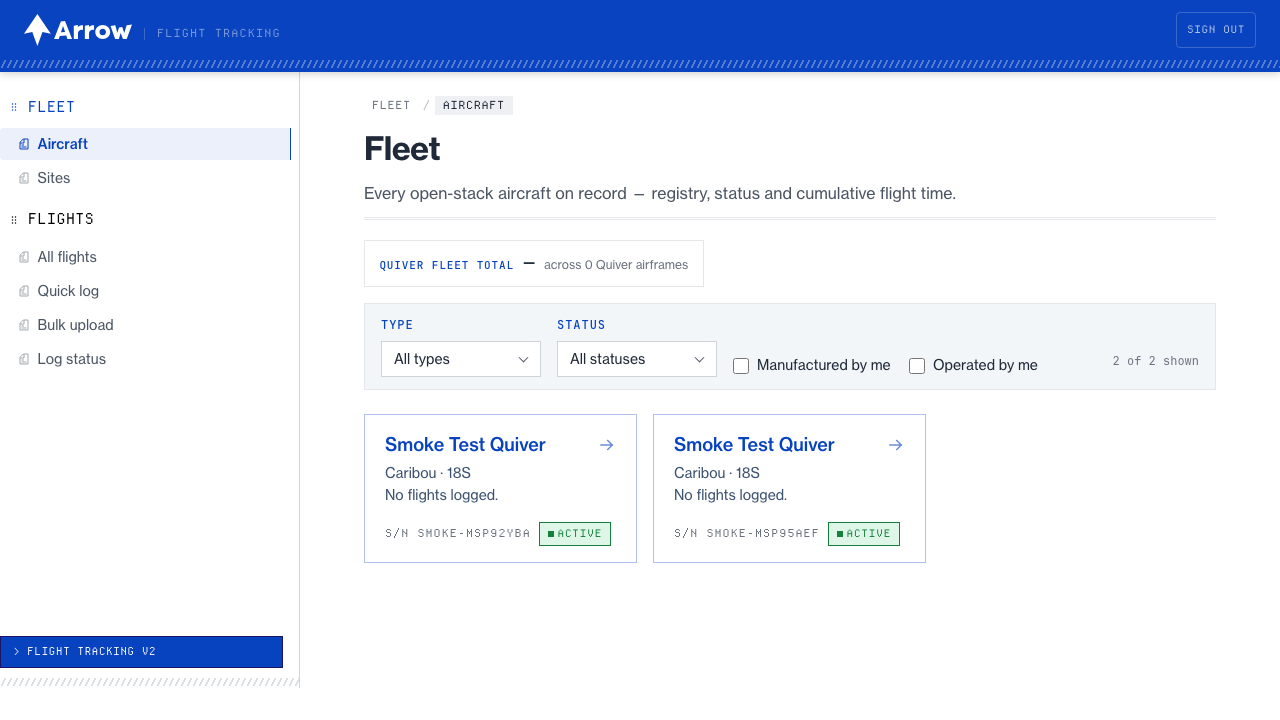
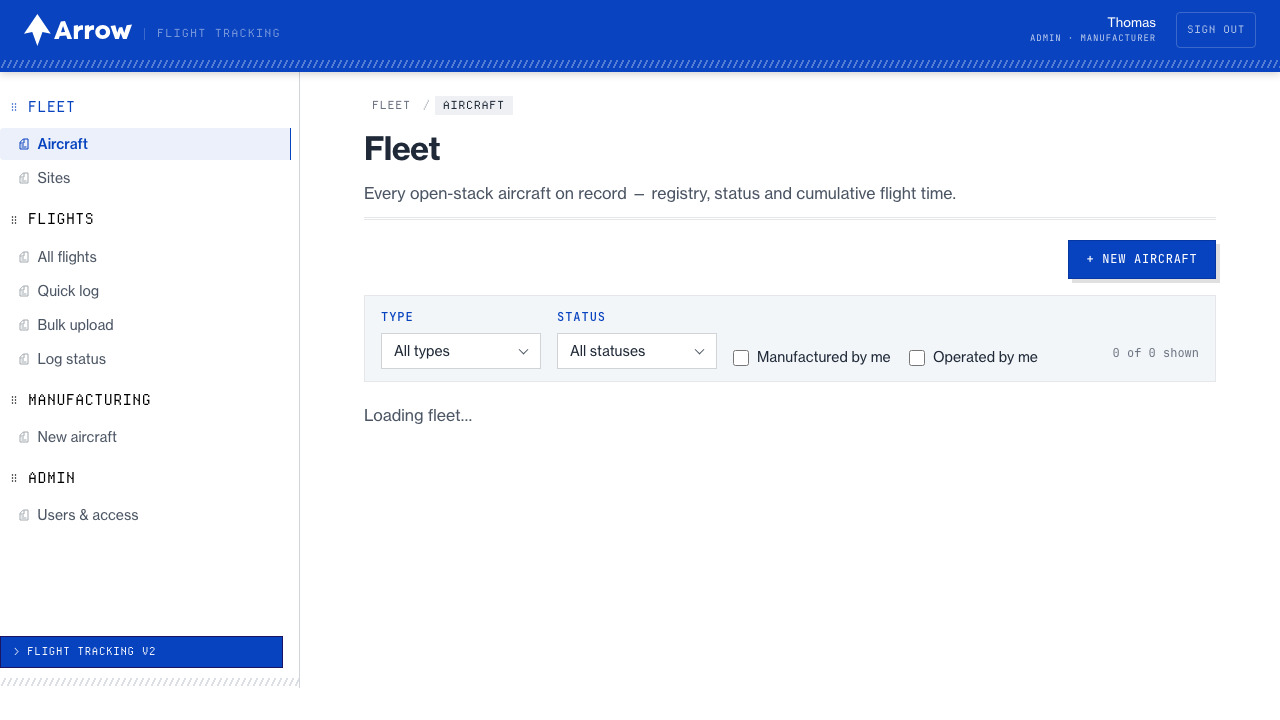
[v22 package] RUN-RESULT-V22: gates re-run (build/typecheck, vitest 130, pytest 35, ui-smoke 16/16), P1 before/after proof (3745.21 -> 573.70 s), work-item table, risks, decisions; harness + refreshed shots

diff --git a/run-workflow-v22.js b/run-workflow-v22.js
@@ -1,0 +1,116 @@
+export const meta = {
+  name: 'flight-tracking-v22',
+  description: 'Flight tracking v2.2 feedback round 2: duration fix, deletes, profile, weather guard — build+critic, tested and reviewed',
+  phases: [
+    { title: 'Recon', detail: 'verify claims, map deltas since v21' },
+    { title: 'Parser', detail: 'armed-duration fix + coords guard' },
+    { title: 'AppFeatures', detail: 'deletes, profile, manufacturer, hover, bulk title, weather error' },
+    { title: 'Gate', detail: 'build+tests+smoke' },
+    { title: 'RedTeam', detail: 'security + skeptical-Thomas product pass' },
+    { title: 'Package', detail: 'push branch, draft PR, RUN-RESULT' },
+  ],
+}
+
+const REPO = '/Users/hex/projects/arrow/flight-tracking'
+const CTX = `${REPO}/run/RUN-CONTEXT-V22.md`
+const NOTES = `${REPO}/run/ARCH-NOTES-V22.md`
+const PREAMBLE = `You are one agent in a multi-agent build run. Read ${CTX} FULLY first — ground truth + HARD RULES (branch v22-feedback only, never touch prod, never print secrets). Also read ${REPO}/run/ARCH-NOTES-V21.md for the codebase map. Read ${NOTES} if it exists. Work in ${REPO}. `
+
+const VERDICT = {
+  type: 'object', additionalProperties: false,
+  properties: {
+    score: { type: 'number' }, pass: { type: 'boolean' },
+    issues: { type: 'array', items: { type: 'object', additionalProperties: false, properties: {
+      severity: { type: 'string', enum: ['blocker','major','minor'] },
+      file: { type: 'string' }, description: { type: 'string' },
+    }, required: ['severity','description'] } },
+    evidence: { type: 'string' },
+  },
+  required: ['score','pass','issues','evidence'],
+}
+
+async function buildLoop(stageName, phase, builderPrompt, criticMandates, maxRounds) {
+  let round = 0, lastIssues = 'none yet', plateau = 0, prevOpen = Infinity
+  while (round < maxRounds) {
+    round += 1
+    log(`${stageName}: build round ${round}`)
+    await agent(PREAMBLE + builderPrompt + ` This is round ${round}. Open critic issues: ${lastIssues}. Fix those first. Run relevant tests before committing. Commit on v22-feedback: "[v22 ${stageName} r${round}] <summary>".`,
+      { label: `build:${stageName}:r${round}`, phase })
+    const verdicts = (await Promise.all(criticMandates.map(m =>
+      agent(PREAMBLE + `CRITIC for stage "${stageName}" (read + run read-only checks/tests; NEVER edit code). Mandate: ${m.mandate} Cite real evidence. Adversarial — false pass costs more than false fail.`,
+        { label: `critic:${stageName}:${m.key}:r${round}`, phase, schema: VERDICT })
+    ))).filter(Boolean)
+    const open = verdicts.flatMap(v => v.issues.filter(i => i.severity !== 'minor'))
+    const allPass = verdicts.length === criticMandates.length && verdicts.every(v => v.pass)
+    log(`${stageName} r${round}: scores ${verdicts.map(v => v.score).join('/')}, open ${open.length}`)
+    if (allPass) return { stage: stageName, rounds: round, shipped: 'clean' }
+    if (open.length >= prevOpen) plateau += 1; else plateau = 0
+    prevOpen = open.length
+    if (plateau >= 2) return { stage: stageName, rounds: round, shipped: 'plateau — complaints recorded', open }
+    lastIssues = JSON.stringify(open).slice(0, 4000)
+  }
+  return { stage: stageName, rounds: round, shipped: 'max rounds', lastIssues }
+}
+
+const results = {}
+
+phase('Recon')
+await agent(PREAMBLE + `RECON. git checkout -b v22-feedback off latest main (git pull first). Write ${NOTES}: (1) deltas since ARCH-NOTES-V21 (v21 merged — what moved); (2) for P1: locate the duration computation and the battery armed-window code in parser/arrow_parser/summary.py — file:line, and confirm whether a local copy of log 387be26687b7_00000027.BIN exists under backups/ (check paths; do NOT download from prod); (3) for P2: the first-fix scan code and what validity info the GPS messages carry; (4) for P3: existing RLS delete policies (quote them or state none), FK ON DELETE behavior for flights→flight_logs→summaries/notes, storage delete policy reality; (5) for P5: the manufactured-by field the v21 fleet filter uses; (6) for P6: the exact AppCard hover CSS rule harming contrast; (7) for P7: how single upload sets flight titles. Commit.`,
+  { label: 'recon', phase: 'Recon' })
+
+phase('Parser')
+results.parser = await buildLoop('parser-fixes', 'Parser',
+  `BUILDER. P1 + P2 from ${CTX}: duration_s = summed armed spans (reuse the battery stats-window arm/disarm detection; record window kind like battery.stats_window), new log_duration_s field + migration column; first-fix validity guard (null coords for (0,0)/no-lock). pytest cases per context (multi-arm-cycle, no-arm fallback, stripped-GPS log → null coords). If the real .BIN for bd0ee3e6 exists locally per ${NOTES}, add an integration test asserting its duration lands ~570s not 3745s and takeoff coords near (30.04,-103.49).`,
+  [
+    { key: 'correctness', mandate: 'Run parser pytest yourself. Verify armed-span logic against a multi-arm fixture BY HAND (compute expected sum independently from the fixture events). Verify migration + db.py column pickup. Verify the fallback path is labeled, not silent.' },
+    { key: 'regression', mandate: 'Check nothing else consumed duration_s assuming log-duration semantics (grep frontend + parser + tests); check battery stats window unchanged; check sanitize/verify pipeline still green; run the full parser pytest and report counts.' },
+  ], 4)
+
+phase('AppFeatures')
+results.deletes = await buildLoop('deletes', 'AppFeatures',
+  `BUILDER. P3: deletion permissions (operator deletes flight, admin deletes aircraft; safe-default block for aircraft-with-flights per context; RLS migrations; confirm dialogs; child-row cleanup; storage-orphan approach documented in code comments + RUN-RESULT note). Follow the P3 spec in ${CTX} closely.`,
+  [
+    { key: 'security', mandate: 'Adversarial RLS: can an operator delete an aircraft, another operator’s unrelated flight, or orphan rows they should not, calling supabase-js directly? Quote the new policy SQL. Client-only gating = blocker.' },
+    { key: 'functional', mandate: 'Build+vitest; trace flight delete end-to-end incl. child rows and confirm the aircraft-with-flights block behaves; confirm dialogs wired.' },
+  ], 4)
+
+results.appMisc = await buildLoop('app-misc', 'AppFeatures',
+  `BUILDER. P4 (profile page w/ copyable user id), P5 (manufacturer display + admin-only edit, human-readable name), P6 (fix hover contrast on fleet tiles — the at-rest fix from v21 must stay), P7 (bulk upload shared title), P2-app-side (weather fetch: hard error message when no usable coords; never fetch (0,0)). npm build + vitest green.`,
+  [
+    { key: 'functional', mandate: 'Build+vitest; verify each of P4/P5/P6/P7/P2-app against its spec — read the diff per item. For P6 specifically: find the hover rule and confirm computed contrast is actually fixed (not just moved).' },
+    { key: 'ux-consistency', mandate: 'Profile page + manufacturer edit + bulk title field must match app styling/i18n conventions; weather error message must be actionable; hover state keeps a visible affordance. Screenshot via ui-smoke if runnable.' },
+  ], 4)
+
+phase('Gate')
+let gate = null
+for (let attempt = 1; attempt <= 2; attempt++) {
+  gate = await agent(PREAMBLE + `INTEGRATION GATE (attempt ${attempt}). On v22-feedback: npm run build, npx vitest run, parser pytest, run/ui-smoke.mjs if runnable. Exact counts + every failure verbatim.`,
+    { label: `gate:attempt${attempt}`, phase: 'Gate', schema: VERDICT })
+  if (gate && gate.pass) break
+  if (attempt === 1) await agent(PREAMBLE + `GATE FIX. Failures: ${JSON.stringify(gate && gate.issues).slice(0, 4000)}. Fix only these, re-run until green, commit "[v22 gate-fix]".`,
+    { label: 'gate:fix', phase: 'Gate' })
+}
+results.gate = gate
+
+phase('RedTeam')
+const redteam = (await Promise.all([
+  agent(PREAMBLE + `RED TEAM — security. Attack git diff main...v22-feedback: RLS deletes (escalation, cross-tenant), storage orphan handling, weather-fetch input validation, profile page info exposure. Evidence required.`,
+    { label: 'redteam:security', phase: 'RedTeam', schema: VERDICT }),
+  agent(PREAMBLE + `RED TEAM — product. Skeptical-Thomas pass: every item P1-P7 in ${CTX} — delivered as asked? Duration semantics REALLY armed-time now (check the math path end to end incl. fleet total hours)? Gaps/partials/reinterpretations with file:line.`,
+    { label: 'redteam:product', phase: 'RedTeam', schema: VERDICT }),
+])).filter(Boolean)
+const rtBlockers = redteam.flatMap(v => v.issues.filter(i => i.severity === 'blocker'))
+if (rtBlockers.length > 0) {
+  await agent(PREAMBLE + `REMEDIATION. Fix blockers on v22-feedback: ${JSON.stringify(rtBlockers).slice(0, 5000)}. Tests green, commit "[v22 redteam-fix]".`,
+    { label: 'redteam:fix', phase: 'RedTeam' })
+  results.recheck = (await Promise.all(rtBlockers.slice(0, 4).map((b, i) =>
+    agent(PREAMBLE + `Verify blocker actually fixed (evidence): ${JSON.stringify(b)}`,
+      { label: `redteam:verify${i}`, phase: 'RedTeam', schema: VERDICT })))).filter(Boolean)
+}
+results.redteam = redteam
+
+phase('Package')
+results.package = await agent(PREAMBLE + `PACKAGER. Write ${REPO}/run/RUN-RESULT-V22.md (per-phase results, critic evidence incl. P1 before/after duration numbers, risk register, work-item table P1-P7, decisions for Thomas incl. the storage-orphan approach and reparse requirement); commit; push -u origin v22-feedback; gh pr create --draft --base main --head v22-feedback --title "v2.2: feedback round 2 — durations, deletes, profile, weather guard" with work-item summary body. Return PR URL + 6-line Discord summary. Do NOT merge.`,
+  { label: 'package', phase: 'Package' })
+
+return results

diff --git a/run/RUN-RESULT-V22.md b/run/RUN-RESULT-V22.md
@@ -1,9 +1,207 @@
-# RUN-RESULT-V22 — v2.2 feedback round 2
+# RUN-RESULT-V22 — Flight Tracking v2.2 feedback round 2 (2026-08-12)
 
-Per-phase results. Each phase appends its own section; the packager merges
-the work-item status table into the PR body.
+Branch `v22-feedback` off main @ 070340b (the v2.1 merge). All work items
+P1–P7 shipped. Prod untouched; migrations are files only, Hex applies
+post-merge. DRAFT PR raised — do not merge without Thomas's review.
+
+**REPARSE REQUIRED AFTER MERGE** (see Decisions §"Reparse"): existing prod
+summaries still carry total-log durations and no log_duration_s /
+duration_source until Hex reruns the full reparse (already planned per
+RUN-CONTEXT).
 
 ---
+
+## Final verification (re-run by packager, 2026-08-12 ~10:15)
+
+| Gate | Result |
+| --- | --- |
+| `npm run build` (vite) | green, 1.0 s |
+| `npm run typecheck` (vue-tsc) | green |
+| `npx vitest run` | **130/130** tests, 9 files |
+| parser pytest (`parser/.venv`) | **35/35** |
+| ui-smoke (`run/ui-smoke.mjs`) | **16/16 PASS** (dev :5199 + local stack + watcher; refreshed shots committed) |
+| Local end-to-end (watcher parse) | new columns land: `duration_source` armed/full_log, `log_duration_s` ≠ `duration_s` on armed logs (103.9 vs 692.8), null takeoff coords on no-GPS log |
+| Local migrations | both v22 migrations applied via `supabase migration up`; `flight_logs.flight_id` FK confirmed CASCADE (`pg_constraint.confdeltype='c'`) |
+
+## Critic evidence — P1 before/after (THE priority)
+
+Proof target: flight bd0ee3e6-7ff7-4242-bd80-f5cbaacd57ed's log
+`387be26687b7_00000027.BIN`. The exact prod log exists locally as
+**`fixtures/nas-logs/00000027.BIN`** (sha256 `387be26687b7ed4d…` verified —
+NOT in backups/v1-storage-flight_logs/, whose 190 objects were all
+checksummed with no match). No prod download occurred.
+
+Parsed with the fixed parser (re-run independently by the packager):
+
+| Field | Before (prod, v21 parser) | After (v22 parser) |
+| --- | --- | --- |
+| `duration_s` | **3745.21** (total log span — the bug) | **573.70** (sum of armed spans) |
+| `log_duration_s` | — (column didn't exist) | **3745.21** (total span preserved) |
+| `duration_source` | — | `armed` |
+| `takeoff_lat/lon` | 30.04, -103.49 | 30.04, -103.49 (unchanged) |
+
+Thomas's evidence said AUTO_ARMED t=2163.5 → DISARMED t=2733.5 ≈ 570 s;
+armed-span sum 573.7 s is consistent (includes all arm cycles). Fallback
+when no arm events: full log span with `duration_source='full_log'`,
+mirroring `battery.stats_window`.
+
+---
+
+## Per-phase results
+
+### Phase 1 — Parser fixes (P1 + P2 parser half; 2 rounds, critic r1 fix)
+
+Commits 0c60219, fc46d8a.
+
+- **P1**: `duration_s` now sums armed spans via
+  `_assemble_armed_intervals()` — the arm/disarm detection extracted from
+  the previously-inline battery stats-window path, so both consumers share
+  ONE code path (no duplication, per RUN-CONTEXT). Multi-arm cycles summed;
+  leading-DISARM ⇒ armed-from-log-start; trailing-ARM ⇒ armed-to-log-end.
+  No-arm-events logs fall back to full log span; `duration_source`
+  ('armed'|'full_log') records which applied. Total span kept as new
+  `log_duration_s`. Migration `20260812130000_v22_duration_semantics.sql`
+  adds `log_duration_s` + `duration_source` (db.py build_summary_row +
+  column introspection pick them up). `armed_duration_s` still emitted
+  parser-side but intentionally NOT given a column (redundant with the new
+  `duration_s` semantics — see Decisions).
+- **P2 (parser half)**: `_plausible_fix()` — a Status≥3 GPS message whose
+  coords would round to the 2-dp null island (0.00, 0.00), or are out of
+  range, is NOT a fix. GPS-stripped uploads (the Erick case) now emit null
+  takeoff coords and null distance_m instead of (0,0).
+- **Critic r1 catch (fc46d8a)**: FlightCard's modes timeline used
+  `duration_s` as the last segment's endpoint — valid under old semantics,
+  NEGATIVE under new (bd0ee3e6: from 2163.5 → to 573.7). Extracted
+  `modeTimeline()` to flightMetrics.ts; last segment now ends at the latest
+  absolute t_s across modes+events, stays open when unknown. Per-log
+  Duration stat gained an armed-vs-full_log tooltip.
+- Frontend duration consumers verified: Flights.vue, FleetList.vue
+  total-hours stat, FlightCard all read `duration_s` via
+  flightMetrics/selects — they inherit correct semantics automatically
+  (fleet total hours = armed hours post-reparse).
+- Tests: 21 new pytest cases (armed-span unit incl. multi-arm/leading/
+  trailing, no-arm fallback, fix-validity matrix, synthesized stripped-GPS
+  log → null coords, bd0ee3e6 integration ~570 s, db-row/migration
+  agreement); 4 new vitest timeline cases.
+
+### Phase 2 — Deletions (P3; 1 round)
+
+Commit 1e844bf. Full detail in the builder section below ("P3 — deletion
+permissions"). Highlights: existing RLS was already correct (operators
+delete flights via can_write_aircraft_data; aircraft delete admin-only —
+contra RUN-CONTEXT's "there may be none"); the real blocker was
+`flight_logs.flight_id` ON DELETE RESTRICT → now CASCADE via migration
+`20260812150000_v22_deletions.sql`; storage delete policies widened to
+flight-writer-or-admin (sanitized bucket previously had NO client delete
+path at all); ConfirmDialog component (type-the-serial for aircraft);
+aircraft-with-flights delete BLOCKED as the safe default. RLS + Storage-API
+behavior verified live against the local stack as real seed users.
+
+### Phase 3 — App misc (P4, P5, P6, P7, P2 app half; 1 round)
+
+Commit 4199cc7. Full detail in the builder section below. Highlights:
+`/profile` page (name, email from session, roles, copyable uuid) linked
+from the navbar user block; AircraftDetail Manufacturer row (built_by ??
+created_by, name not uuid) with admin-only edit; AppCard hover dither
+capped `opacity(1)` → `opacity(0.14)` keeping lift/border affordance;
+BulkUpload optional shared Title (blank = existing per-file default);
+weather guard — `usableWeatherCoords()` null-island epsilon screen on BOTH
+coord sources, `fetchWeatherAt` throws before any network call on unusable
+coords, FlightCard/QuickLog show the prescribed clear error and never
+fetch for (0,0).
+
+### Phase 4 — Package (this document)
+
+All gates re-run green (table above); ui-smoke executed 16/16 with a live
+watcher parse proving the new columns land end-to-end; P1 before/after
+independently reproduced; screenshots refreshed; harness committed
+(run-workflow-v22.js, run/watchdog-v22.sh) per v21 precedent; draft PR
+raised.
+
+---
+
+## Work-item status P1–P7
+
+| Item | Status | Where | Proof |
+| --- | --- | --- | --- |
+| P1 duration = armed flight time | **DONE** | summary.py `_assemble_armed_intervals`, migration 20260812130000, flightMetrics.ts | bd0ee3e6 log: 3745.21 → 573.70 s; `log_duration_s` 3745.21 kept; 35 pytest green |
+| P2 coords guard + weather error | **DONE** | summary.py `_plausible_fix`; flightMetrics `usableWeatherCoords`; weather.ts throw; FlightCard/QuickLog errors | stripped-log pytest → null coords; vitest proves no fetch for (0,0); local no-GPS log parsed → null coords |
+| P3 deletion permissions | **DONE** | migration 20260812150000, deletion.ts, ConfirmDialog, FlightCard/AircraftDetail | live RLS matrix + Storage API checks as seed users; FK cascade verified |
+| P4 profile page w/ user id | **DONE** | src/pages/Profile.vue, `/profile`, AppShell link | ui-smoke suite green; copy button + fallback |
+| P5 aircraft manufacturer | **DONE** | AircraftDetail.vue (built_by, name displayed, admin-only edit) | same source field as v21 "manufactured by me" filter |
+| P6 fleet tile hover contrast | **DONE** | AppCard.vue hover `::before` 1 → 0.14; meta row darkens | at-rest v21 fix untouched; affordance (lift/border/bg) kept |
+| P7 bulk upload shared title | **DONE** | BulkUpload.vue defaults panel | trim-or-fallback matches QuickLog semantics; blank = old behavior |
+
+## Risk register
+
+1. **Stale prod durations until reparse** (HIGH visibility, planned
+   mitigation): until Hex reruns the full reparse, prod `duration_s` rows
+   keep total-log values and `log_duration_s`/`duration_source` are NULL.
+   Frontend handles NULLs (tooltip omits source; timeline no longer uses
+   duration_s). Mitigation: Hex's already-planned post-merge reparse.
+2. **Migration ordering on prod**: 20260812130000 (duration columns) and
+   20260812150000 (deletions/FK/storage) must be applied before the reparse
+   and before anyone uses delete UI. Applied clean on local stack.
+3. **FK CASCADE widens delete blast radius** (accepted): an authorized
+   flights DELETE now removes flight_logs rows the deleter didn't upload,
+   plus summaries/series/params via existing cascades. That IS the P3 spec;
+   summaries were already admin-write-only so no privilege is gained.
+4. **Storage orphans are eventual-consistency by design** (see Decisions):
+   client crash between storage remove and row delete leaves a re-deletable
+   flight; RLS miss leaves an orphaned object for the admin sweep. No
+   data-loss path found.
+5. **built_by editable by operators via raw API** (LOW): aircraft UPDATE RLS
+   is operator-or-admin; the admin-only restriction on the Manufacturer
+   field is client-side. Not privilege-bearing. Strict fix = column-guard
+   trigger (like tg_guard_roles) if Thomas wants it.
+6. **Storage-API removed-list over-reports "unconfirmed"** for non-owner
+   operators deleting gps_private raw objects (RETURNING filtered by SELECT
+   policy). Deliberate: over-report rather than under-report; admin sweep
+   reconciles.
+7. **P6 hover dither 0.14 is a judgment call** — one-line tunable in
+   AppCard.vue if Thomas still finds hover text hard to read.
+8. **Weather button now errors on click instead of disabling** — deliberate
+   per RUN-CONTEXT ("must show a clear error"); noted in case UX
+   expectations differ.
+
+## Decisions for Thomas
+
+1. **Storage-orphan approach (P3) — CHOSEN: delete-objects-first, orphan
+   knowingly, admin sweep reconciles.** Storage delete policies resolve
+   permission THROUGH the flight_logs row, so objects must be removed
+   BEFORE the row (enforced + unit-tested in deletion.ts). Anything not
+   confirmed removed is surfaced in the UI ("N object(s) could not be
+   confirmed removed") and orphans harmlessly. Reconciliation mechanism for
+   Hex (service-role): list bucket objects with no matching live
+   flight_logs row (`object_path` for raw, `sanitized_path` for sanitized)
+   and delete via the Storage API — direct SQL DML on storage.objects is
+   blocked by a guard trigger (discovered in testing). Alternative rejected:
+   server-side delete function (edge function / RPC with service role) —
+   more moving parts than this round warranted; say the word if you want
+   atomicity instead of a sweep.
+2. **REPARSE REQUIREMENT: after this merges and migrations apply, the full
+   reparse must run** (Hex already plans this) — it (a) fixes all
+   duration_s values to armed time + populates log_duration_s/
+   duration_source, and (b) regenerates the 12 nulled (0,0) coord rows
+   correctly under the new validity guard. No reparse tooling was built per
+   RUN-CONTEXT.
+3. **Aircraft-with-flights delete: BLOCKED (safe default).** DB keeps ON
+   DELETE RESTRICT, UI pre-checks the live count and tells the admin to
+   delete/reassign flights first. Alternative (explicit cascade of flights)
+   deliberately not offered.
+4. **`armed_duration_s` column NOT added** — duration_s now IS armed time;
+   a third duration column would be redundant. Parser still emits the key
+   (dropped by introspection) if you ever want it.
+5. **Flight delete is one-click-confirm** (dialog, but no type-to-confirm) —
+   type-to-confirm reserved for the aircraft cascade per RUN-CONTEXT. Easy
+   to add if flights should get it too.
+6. **built_by column-guard trigger?** (risk #5) — operators can technically
+   PATCH built_by via raw API today; client UI hides it. Add a guard
+   trigger migration if that must be DB-enforced.
+
+---
+
+## Builder phase reports (verbatim)
 
 ## P3 — deletion permissions (builder round 1)
 
